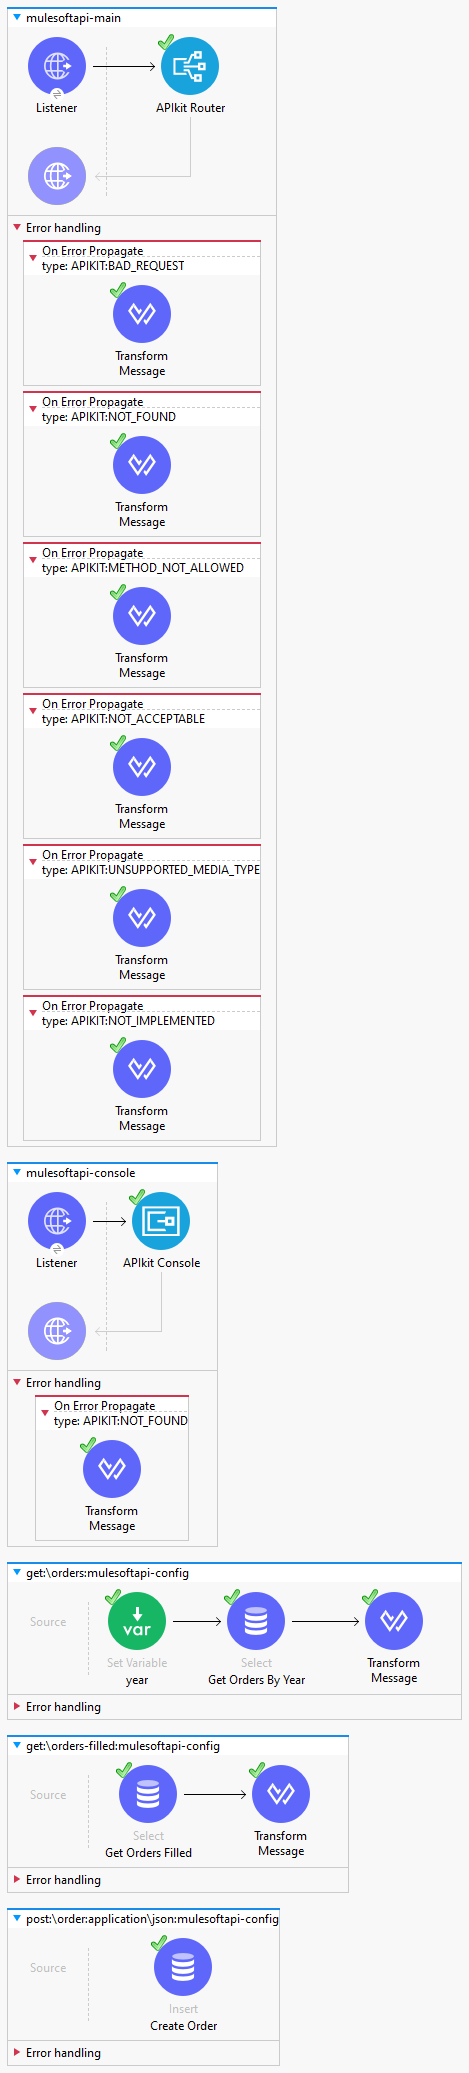
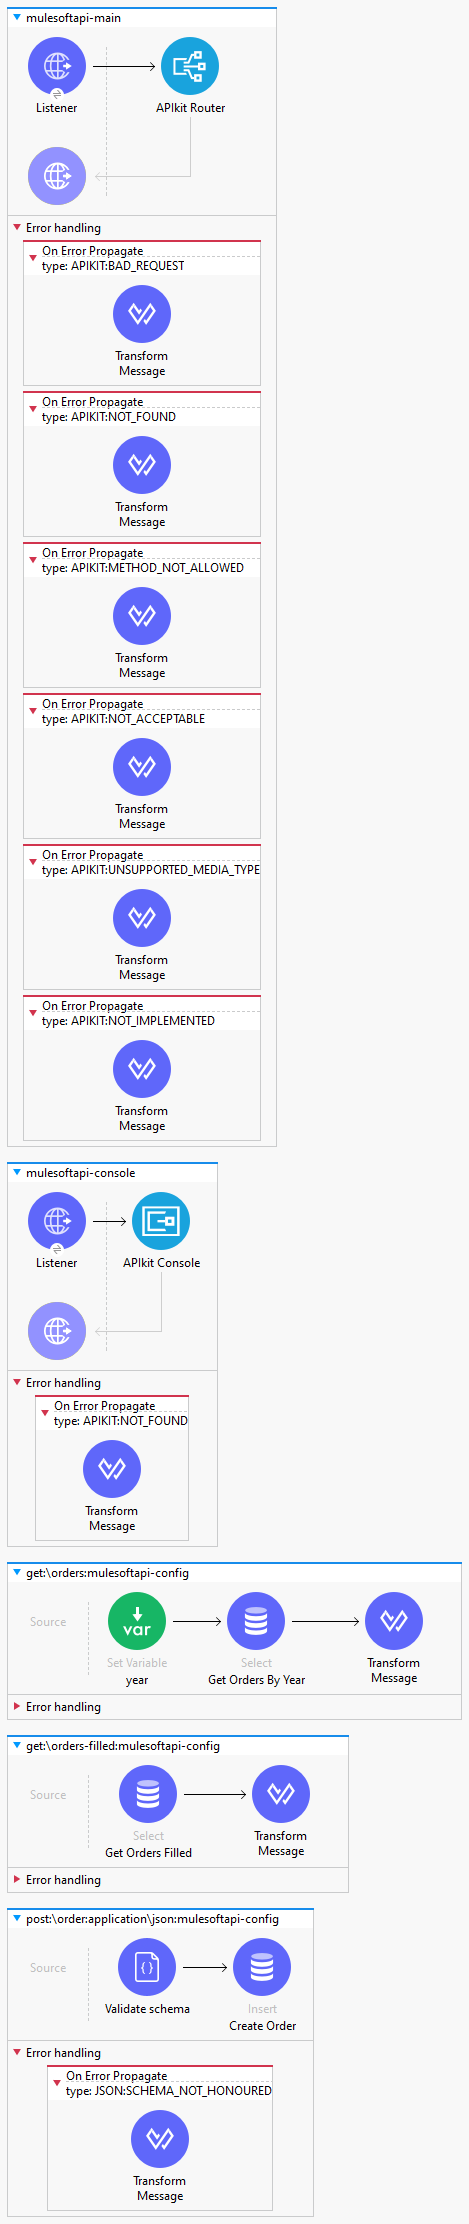
update portal

diff --git a/index.html b/index.html
@@ -148,41 +148,6 @@ assert_expression_payload1::main({payload: payload, attributes: attributes, vars
             &lt;/munit-tools:assert&gt; 
         &lt;/munit:validation&gt; 
     &lt;/munit:test&gt;  
-    &lt;munit:test name="post:\order:application\json:mulesoftapi-config-test" doc:id="f32d419a-5ab6-42f1-911d-d6d0e28ac0e9"&gt; 
-        &lt;munit:behavior&gt; 
-            &lt;munit-tools:mock-when doc:name="Mock Create Order" doc:id="946aa882-fa09-4f4d-93e9-18842b9c424f" processor="db:insert"&gt; 
-                &lt;munit-tools:with-attributes&gt; 
-                    &lt;munit-tools:with-attribute whereValue="60e636dc-1b99-432d-bd37-46e9b9564d3e" attributeName="doc:id"/&gt; 
-                &lt;/munit-tools:with-attributes&gt;  
-                &lt;munit-tools:then-return&gt; 
-                    &lt;munit-tools:payload value="#[output application/json --- readUrl('classpath://postorderapplicationjsonmulesoftapiconfigtest\mock_payload1.dwl')]" mediaType="application/json" encoding="UTF-8"/&gt;  
-                    &lt;munit-tools:attributes value="#[readUrl('classpath://postorderapplicationjsonmulesoftapiconfigtest\mock_attributes1.dwl')]"/&gt;  
-                    &lt;munit-tools:variables&gt; 
-                        &lt;munit-tools:variable key="outboundHeaders" value="#[readUrl('classpath://postorderapplicationjsonmulesoftapiconfigtest\mock_variable_2.dwl')]"/&gt;  
-                        &lt;munit-tools:variable key="tx_number" value="#[output application/java --- readUrl('classpath://postorderapplicationjsonmulesoftapiconfigtest\mock_variable_3.dwl')]" mediaType="application/java" encoding="UTF-8"/&gt; 
-                    &lt;/munit-tools:variables&gt; 
-                &lt;/munit-tools:then-return&gt; 
-            &lt;/munit-tools:mock-when&gt;  
-            &lt;munit:set-event doc:name="Set Input" doc:id="c71db5e7-9a32-44da-9dc8-5f9fc7aff3de"&gt; 
-                &lt;munit:payload value="#[output application/json --- readUrl('classpath://postorderapplicationjsonmulesoftapiconfigtest\set-event_payload1.dwl')]" encoding="UTF-8" mediaType="application/json"/&gt;  
-                &lt;munit:attributes value="#[readUrl('classpath://postorderapplicationjsonmulesoftapiconfigtest\set-event_attributes1.dwl')]"/&gt;  
-                &lt;munit:variables&gt; 
-                    &lt;munit:variable key="outboundHeaders" value="#[readUrl('classpath://postorderapplicationjsonmulesoftapiconfigtest\set-event_variable_1.dwl')]"/&gt; 
-                &lt;/munit:variables&gt; 
-            &lt;/munit:set-event&gt; 
-        &lt;/munit:behavior&gt;  
-        &lt;munit:execution&gt; 
-            &lt;flow-ref doc:name="Flow-ref to post:\order:application\json:mulesoftapi-config" doc:id="b704d945-bdb9-42aa-a739-7c38cd2e3410" name="post:\order:application\json:mulesoftapi-config"/&gt; 
-        &lt;/munit:execution&gt;  
-        &lt;munit:validation&gt; 
-            &lt;munit-tools:assert doc:name="Assert payload" doc:id="e91cd98b-c260-4583-b7df-001feab8e44e" message="The payload does not match"&gt; 
-                &lt;munit-tools:that&gt;&lt;![CDATA[#[%dw 2.0
-import postorderapplicationjsonmulesoftapiconfigtest::assert_expression_payload1
----
-assert_expression_payload1::main({payload: payload, attributes: attributes, vars: vars})]]]&gt;    &lt;/munit-tools:that&gt;
-            &lt;/munit-tools:assert&gt; 
-        &lt;/munit:validation&gt; 
-    &lt;/munit:test&gt;  
     &lt;munit:test name="mulesoftapi-console-test" doc:id="61232e76-ca86-433d-a889-098cd42ef97b"&gt; 
         &lt;munit:behavior&gt; 
             &lt;munit-tools:mock-when doc:name="Mock APIkit Console" doc:id="6ed0625f-897c-496c-938f-3ce69750fc95" processor="apikit:console"&gt; 
@@ -481,6 +446,77 @@ assert_expression_payload1::main({payload: payload, attributes: attributes, vars
         &lt;/munit:execution&gt;  
         &lt;munit:validation&gt; 
             &lt;munit-tools:assert-that doc:name="Assert that" doc:id="a1509ba6-058a-4222-ba04-6312474f7ff2" is="#[MunitTools::equalTo('Resource not found')]" expression="#[payload.error]"/&gt; 
+        &lt;/munit:validation&gt; 
+    &lt;/munit:test&gt;  
+    &lt;munit:test name="post:\order:application\json:mulesoftapi-config-test" doc:id="333458b0-ff00-4021-9db0-4fbb4c338d23"&gt; 
+        &lt;munit:behavior&gt; 
+            &lt;munit-tools:mock-when doc:name="Mock Create Order" doc:id="c4c824fc-908e-4b47-b647-c6b28dbb73bd" processor="db:insert"&gt; 
+                &lt;munit-tools:with-attributes&gt; 
+                    &lt;munit-tools:with-attribute whereValue="60e636dc-1b99-432d-bd37-46e9b9564d3e" attributeName="doc:id"/&gt; 
+                &lt;/munit-tools:with-attributes&gt;  
+                &lt;munit-tools:then-return&gt; 
+                    &lt;munit-tools:payload value="#[output application/json --- readUrl('classpath://postorderapplicationjsonmulesoftapiconfigtest\mock_payload2.dwl')]" mediaType="application/json" encoding="UTF-8"/&gt;  
+                    &lt;munit-tools:attributes value="#[readUrl('classpath://postorderapplicationjsonmulesoftapiconfigtest\mock_attributes2.dwl')]"/&gt;  
+                    &lt;munit-tools:variables&gt; 
+                        &lt;munit-tools:variable key="outboundHeaders" value="#[readUrl('classpath://postorderapplicationjsonmulesoftapiconfigtest\mock_variable_4.dwl')]"/&gt;  
+                        &lt;munit-tools:variable key="tx_number" value="#[output application/java --- readUrl('classpath://postorderapplicationjsonmulesoftapiconfigtest\mock_variable_5.dwl')]" mediaType="application/java" encoding="UTF-8"/&gt; 
+                    &lt;/munit-tools:variables&gt; 
+                &lt;/munit-tools:then-return&gt; 
+            &lt;/munit-tools:mock-when&gt;  
+            &lt;munit:set-event doc:name="Set Input" doc:id="2b33ccfb-c001-4bb5-81b7-1fbdd60f4450"&gt; 
+                &lt;munit:payload value="#[output application/json --- readUrl('classpath://postorderapplicationjsonmulesoftapiconfigtest\set-event_payload2.dwl')]" encoding="UTF-8" mediaType="application/json"/&gt;  
+                &lt;munit:attributes value="#[readUrl('classpath://postorderapplicationjsonmulesoftapiconfigtest\set-event_attributes2.dwl')]"/&gt;  
+                &lt;munit:variables&gt; 
+                    &lt;munit:variable key="outboundHeaders" value="#[readUrl('classpath://postorderapplicationjsonmulesoftapiconfigtest\set-event_variable_2.dwl')]"/&gt; 
+                &lt;/munit:variables&gt; 
+            &lt;/munit:set-event&gt; 
+        &lt;/munit:behavior&gt;  
+        &lt;munit:execution&gt; 
+            &lt;flow-ref doc:name="Flow-ref to post:\order:application\json:mulesoftapi-config" doc:id="c31f2b6e-043b-4aaf-a3e4-528ac8e16d3f" name="post:\order:application\json:mulesoftapi-config"/&gt; 
+        &lt;/munit:execution&gt;  
+        &lt;munit:validation&gt; 
+            &lt;munit-tools:assert doc:name="Assert payload" doc:id="5af23699-e66b-4a4e-97e4-ba14b7fe3fe1" message="The payload does not match"&gt; 
+                &lt;munit-tools:that&gt;&lt;![CDATA[#[%dw 2.0
+import postorderapplicationjsonmulesoftapiconfigtest::assert_expression_payload2
+---
+assert_expression_payload2::main({payload: payload, attributes: attributes, vars: vars})]]]&gt;    &lt;/munit-tools:that&gt;
+            &lt;/munit-tools:assert&gt; 
+        &lt;/munit:validation&gt; 
+    &lt;/munit:test&gt;  
+    &lt;munit:test name="Copy_of_post:\order:application\json:mulesoftapi-config-test" doc:id="007317a3-62d9-403a-b0b8-8d49e889ca54"&gt; 
+        &lt;munit:behavior&gt; 
+            &lt;munit-tools:mock-when doc:name="Copy_of_Mock Create Order" doc:id="2cea71f1-2bf1-4a30-a063-598836135d05" processor="db:insert"&gt; 
+                &lt;munit-tools:with-attributes&gt; 
+                    &lt;munit-tools:with-attribute whereValue="60e636dc-1b99-432d-bd37-46e9b9564d3e" attributeName="doc:id"/&gt; 
+                &lt;/munit-tools:with-attributes&gt;  
+                &lt;munit-tools:then-return&gt; 
+                    &lt;munit-tools:error typeId="JSON:SCHEMA_NOT_HONOURED"/&gt;  
+                    &lt;munit-tools:variables&gt; 
+                        &lt;munit-tools:variable key="outboundHeaders" value="#[readUrl('classpath://postorderapplicationjsonmulesoftapiconfigtest\mock_variable_4.dwl')]"/&gt;  
+                        &lt;munit-tools:variable key="tx_number" value="#[output application/java --- readUrl('classpath://postorderapplicationjsonmulesoftapiconfigtest\mock_variable_5.dwl')]" mediaType="application/java" encoding="UTF-8"/&gt; 
+                    &lt;/munit-tools:variables&gt; 
+                &lt;/munit-tools:then-return&gt; 
+            &lt;/munit-tools:mock-when&gt;  
+            &lt;munit:set-event doc:name="Copy_of_Set Input" doc:id="4b61e608-c311-41ab-bb0b-ea71b55d2c64"&gt; 
+                &lt;munit:payload value="#[output application/json --- readUrl('classpath://postorderapplicationjsonmulesoftapiconfigtest\set-event_payload2.dwl')]" encoding="UTF-8" mediaType="application/json"/&gt;  
+                &lt;munit:attributes value="#[readUrl('classpath://postorderapplicationjsonmulesoftapiconfigtest\set-event_attributes2.dwl')]"/&gt;  
+                &lt;munit:variables&gt; 
+                    &lt;munit:variable key="outboundHeaders" value="#[readUrl('classpath://postorderapplicationjsonmulesoftapiconfigtest\set-event_variable_2.dwl')]"/&gt; 
+                &lt;/munit:variables&gt; 
+            &lt;/munit:set-event&gt; 
+        &lt;/munit:behavior&gt;  
+        &lt;munit:execution&gt; 
+            &lt;try doc:name="Try" doc:id="64e1e18d-b8c2-44af-8da6-20862b550a21"&gt; 
+                &lt;flow-ref doc:name="Copy_of_Flow-ref to post:\order:application\json:mulesoftapi-config" doc:id="b3e840b1-013a-4933-850b-735254d6821e" name="post:\order:application\json:mulesoftapi-config"/&gt;  
+                &lt;error-handler&gt; 
+                    &lt;on-error-continue enableNotifications="true" logException="true" doc:name="On Error Continue" doc:id="5a9b125b-f63a-4b70-b356-ad351d71cc18"&gt; 
+                        &lt;logger level="INFO" doc:name="Logger" doc:id="d0ba2b13-01d0-41bd-899c-442093086355" message="continue.."/&gt; 
+                    &lt;/on-error-continue&gt; 
+                &lt;/error-handler&gt; 
+            &lt;/try&gt; 
+        &lt;/munit:execution&gt;  
+        &lt;munit:validation&gt; 
+            &lt;munit-tools:assert-that doc:name="Assert that" doc:id="e2223f7d-1f91-4df7-a35d-48bc66bfc8f2" is="#[MunitTools::equalTo('Json content is not compliant with schema')]" expression="#[payload.error]"/&gt; 
         &lt;/munit:validation&gt; 
     &lt;/munit:test&gt; 
 &lt;/mule&gt;

diff --git a/mulesoftapi.html b/mulesoftapi.html
@@ -116,9 +116,11 @@
           <div class="accordion-inner">
               <pre><code>&lt;?xml version="1.0" encoding="UTF-8"?&gt;
 
-&lt;mule xmlns="http://www.mulesoft.org/schema/mule/core" xmlns:api-gateway="http://www.mulesoft.org/schema/mule/api-gateway" xmlns:doc="http://www.mulesoft.org/schema/mule/documentation" xmlns:db="http://www.mulesoft.org/schema/mule/db" xmlns:apikit="http://www.mulesoft.org/schema/mule/mule-apikit" xmlns:ee="http://www.mulesoft.org/schema/mule/ee/core" xmlns:http="http://www.mulesoft.org/schema/mule/http" xmlns:xsi="http://www.w3.org/2001/XMLSchema-instance" xsi:schemaLocation="http://www.mulesoft.org/schema/mule/core http://www.mulesoft.org/schema/mule/core/current/mule.xsd http://www.mulesoft.org/schema/mule/http http://www.mulesoft.org/schema/mule/http/current/mule-http.xsd http://www.mulesoft.org/schema/mule/mule-apikit http://www.mulesoft.org/schema/mule/mule-apikit/current/mule-apikit.xsd http://www.mulesoft.org/schema/mule/ee/core http://www.mulesoft.org/schema/mule/ee/core/current/mule-ee.xsd 
+&lt;mule xmlns="http://www.mulesoft.org/schema/mule/core" xmlns:json="http://www.mulesoft.org/schema/mule/json" xmlns:api-gateway="http://www.mulesoft.org/schema/mule/api-gateway" xmlns:doc="http://www.mulesoft.org/schema/mule/documentation" xmlns:db="http://www.mulesoft.org/schema/mule/db" xmlns:apikit="http://www.mulesoft.org/schema/mule/mule-apikit" xmlns:ee="http://www.mulesoft.org/schema/mule/ee/core" xmlns:http="http://www.mulesoft.org/schema/mule/http" xmlns:xsi="http://www.w3.org/2001/XMLSchema-instance" xsi:schemaLocation="http://www.mulesoft.org/schema/mule/core http://www.mulesoft.org/schema/mule/core/current/mule.xsd http://www.mulesoft.org/schema/mule/http http://www.mulesoft.org/schema/mule/http/current/mule-http.xsd http://www.mulesoft.org/schema/mule/mule-apikit http://www.mulesoft.org/schema/mule/mule-apikit/current/mule-apikit.xsd http://www.mulesoft.org/schema/mule/ee/core http://www.mulesoft.org/schema/mule/ee/core/current/mule-ee.xsd 
 http://www.mulesoft.org/schema/mule/db http://www.mulesoft.org/schema/mule/db/current/mule-db.xsd
-http://www.mulesoft.org/schema/mule/api-gateway http://www.mulesoft.org/schema/mule/api-gateway/current/mule-api-gateway.xsd"&gt;
+http://www.mulesoft.org/schema/mule/api-gateway http://www.mulesoft.org/schema/mule/api-gateway/current/mule-api-gateway.xsd
+http://www.mulesoft.org/schema/mule/xml-module http://www.mulesoft.org/schema/mule/xml-module/current/mule-xml-module.xsd
+http://www.mulesoft.org/schema/mule/json http://www.mulesoft.org/schema/mule/json/current/mule-json.xsd"&gt;
     &lt;http:listener-config name="mulesoftapi-httpListenerConfig"&gt; 
         &lt;http:listener-connection host="0.0.0.0" port="8081"/&gt; 
     &lt;/http:listener-config&gt;  
@@ -326,6 +328,7 @@ payload map ( payload01 , indexOfPayload01 ) -&gt; {
         &lt;/ee:transform&gt; 
     &lt;/flow&gt;  
     &lt;flow name="post:\order:application\json:mulesoftapi-config"&gt; 
+        &lt;json:validate-schema doc:name="Validate schema" doc:id="7908b40d-9a15-4cc5-aa5f-2b12cb79c0a8" schema="order.json"/&gt;  
         &lt;db:insert doc:name="Create Order" doc:id="60e636dc-1b99-432d-bd37-46e9b9564d3e" config-ref="postgres" autoGenerateKeys="true" target="tx_number" targetValue="#[payload.generatedKeys[0]]"&gt; 
             &lt;db:sql&gt;&lt;![CDATA[INSERT INTO ORDERS_HISTORY (ORDER_DATE,ACTION,STATUS,SYMBOL,QUANTITY,PRICE) 
 
@@ -344,7 +347,25 @@ VALUES (current_timestamp,:ACTION,'PENDING',:SYMBOL,:QUANTITY,:PRICE)]]&gt;    &
             &lt;db:auto-generated-keys-column-names&gt; 
                 &lt;db:auto-generated-keys-column-name value="tx_number"/&gt; 
             &lt;/db:auto-generated-keys-column-names&gt; 
-        &lt;/db:insert&gt; 
+        &lt;/db:insert&gt;  
+        &lt;error-handler&gt; 
+            &lt;on-error-propagate type="JSON:SCHEMA_NOT_HONOURED"&gt; 
+                &lt;ee:transform&gt; 
+                    &lt;ee:message&gt; 
+                        &lt;ee:set-payload&gt;&lt;![CDATA[%dw 2.0
+
+output application/json
+
+---
+
+{error: "Json content is not compliant with schema"}]]&gt; &lt;/ee:set-payload&gt;
+                    &lt;/ee:message&gt;  
+                    &lt;ee:variables&gt; 
+                        &lt;ee:set-variable variableName="httpStatus"&gt;&lt;![CDATA[400]]&gt;  &lt;/ee:set-variable&gt; 
+                    &lt;/ee:variables&gt; 
+                &lt;/ee:transform&gt; 
+            &lt;/on-error-propagate&gt; 
+        &lt;/error-handler&gt; 
     &lt;/flow&gt; 
 &lt;/mule&gt;
 </code></pre>
@@ -674,6 +695,7 @@ payload map ( payload01 , indexOfPayload01 ) -&gt; {
                     <pre><code>&lt;?xml version="1.0" encoding="UTF-8"?&gt;
 
 &lt;flow name="post:\order:application\json:mulesoftapi-config"&gt;  
+    &lt;json:validate-schema doc:name="Validate schema" doc:id="7908b40d-9a15-4cc5-aa5f-2b12cb79c0a8" schema="order.json"&gt; &lt;/json:validate-schema&gt;  
     &lt;db:insert doc:name="Create Order" doc:id="60e636dc-1b99-432d-bd37-46e9b9564d3e" config-ref="postgres" autoGenerateKeys="true" target="tx_number" targetValue="#[payload.generatedKeys[0]]"&gt;  
         &lt;db:sql&gt;&lt;![CDATA[INSERT INTO ORDERS_HISTORY (ORDER_DATE,ACTION,STATUS,SYMBOL,QUANTITY,PRICE) 
 
@@ -692,7 +714,25 @@ VALUES (current_timestamp,:ACTION,'PENDING',:SYMBOL,:QUANTITY,:PRICE)]]&gt;    &
         &lt;db:auto-generated-keys-column-names&gt; 
             &lt;db:auto-generated-keys-column-name value="tx_number"/&gt; 
         &lt;/db:auto-generated-keys-column-names&gt; 
-    &lt;/db:insert&gt; 
+    &lt;/db:insert&gt;  
+    &lt;error-handler&gt; 
+        &lt;on-error-propagate type="JSON:SCHEMA_NOT_HONOURED"&gt; 
+            &lt;ee:transform &gt;  
+                &lt;ee:message&gt; 
+                    &lt;ee:set-payload&gt;&lt;![CDATA[%dw 2.0
+
+output application/json
+
+---
+
+{error: "Json content is not compliant with schema"}]]&gt; &lt;/ee:set-payload&gt;
+                &lt;/ee:message&gt;  
+                &lt;ee:variables&gt; 
+                    &lt;ee:set-variable variableName="httpStatus"&gt;&lt;![CDATA[400]]&gt;  &lt;/ee:set-variable&gt; 
+                &lt;/ee:variables&gt; 
+            &lt;/ee:transform&gt; 
+        &lt;/on-error-propagate&gt; 
+    &lt;/error-handler&gt; 
 &lt;/flow&gt;
 </code></pre>
 
